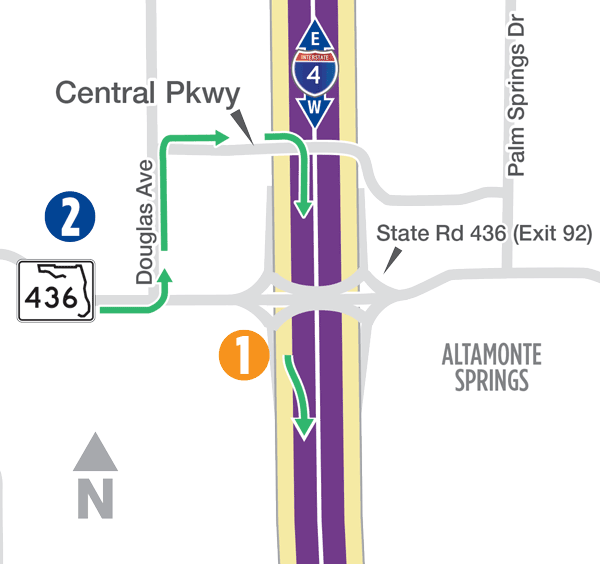
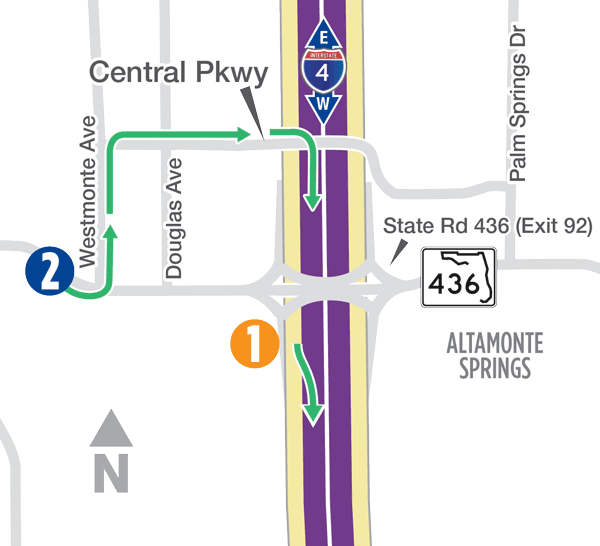
content edits

Changed region(s): [[0.0, 0.0, 0.99, 1.0], [0.12, 0.7473, 0.24, 0.9341], [0.0, 0.7784, 0.06, 1.0]]

diff --git a/src/index.js b/src/index.js
@@ -12,6 +12,9 @@ const apiKey = process.env.API_KEY;
 const domElements = {
   mapContainerStr: document.getElementById('map'),
   mapSectionStr: document.querySelector('[data-map-key]'),
+  stepNumberOneStr: document.querySelector('[data-step-one]'),
+  stepNumberTwoStr: document.querySelector('[data-step-two]'),
+  stepNumberThreeStr: document.querySelector('[data-step-three]'),
   directionStr: document.querySelector('[data-direction]'),
   directionTextStr: document.querySelector('[data-direction-text]'),
   secondStepStr: document.querySelector('.form__select-direction-two'),
@@ -160,11 +163,19 @@ window.initMap = function () {
     // display step number 2 by removing the class that's hiding it
     domElements.secondStepStr.classList.remove('hide');
 
-    // display step number 3 by removing the class that's hiding it
-    domElements.thirdStepStr.classList.remove('hide');
+    /* ==========FOR BETTER UX============== */
+    // Remove 'heart' class from step number 1
+    domElements.stepNumberOneStr.classList.remove('heart');
+
+    // Add 'heart' class to the step number 2 for better UX
+    domElements.stepNumberTwoStr.classList.add('heart');
+    /* ==========FOR BETTER UX============== */
 
     // reset exit dropdown if there's any value
     resetDropDown(domElements.exitPointStr);
+
+    // hide step number 3 by adding the class 'hide'
+    domElements.thirdStepStr.classList.add('hide');
 
     // hide view route button
     domElements.viewRouteStr.classList.add('hide');
@@ -279,6 +290,15 @@ window.initMap = function () {
 
     // reset previous routes
     directionsRenderer.setMap(null);
+
+    /* ==========FOR BETTER UX============== */
+    // ADD 'heart' class from step number 2
+    domElements.stepNumberTwoStr.classList.add('heart');
+
+    /* ==========FOR BETTER UX============== */
+
+    // hide step number 3 by adding the class 'hide'
+    domElements.thirdStepStr.classList.add('hide');
 
     // hide view route button
     domElements.viewRouteStr.classList.add('hide');
@@ -463,10 +483,21 @@ window.initMap = function () {
     // reset previous routes
     directionsRenderer.setMap(null);
 
+    // display step number 3 by removing the class that's hiding it
+    domElements.thirdStepStr.classList.remove('hide');
+
     // show view route button after user selects an exit
     domElements.viewRouteStr.classList.remove('hide');
     // show start over button after user selects an exit
     domElements.startOverStr.classList.remove('hide');
+
+    /* ==========FOR BETTER UX============== */
+    // Remove 'heart' class from step number 2
+    domElements.stepNumberTwoStr.classList.remove('heart');
+
+    // Add 'heart' class to the step number 3 for better UX
+    domElements.stepNumberThreeStr.classList.add('heart');
+    /* ==========FOR BETTER UX============== */
 
     // store the ids of the selected entry and exit point
     selectedEntryExit = [selectedEntryPoint, selectedExitPoint];
@@ -960,9 +991,12 @@ window.initMap = function () {
     // markers.push(marker);
     directionValue === 1 ? eastMarkers.push(marker) : westMarkers.push(marker);
 
+    // triggers when marker gets clicked
     marker.addListener('click', function () {
       populateInfoWindow(this);
     });
+
+    // tri
   }
 
   // clears then sets bounds of the markers
@@ -1206,14 +1240,6 @@ window.initMap = function () {
         // add error message
         resultPara.textContent = 'Error: ' + err;
       }
-      if (navigator.share) {
-        // we can use web share!
-        console.log('we can use web share!');
-        resultPara.textContent = 'Map shared successfully!';
-      } else {
-        // provide a fallback here
-        console.log('we CANNOT use web share!');
-      }
     });
 
     // console.log(mapUrl);
@@ -1268,6 +1294,12 @@ window.initMap = function () {
       elementMarkerJ.classList.remove(labelExitColor);
     }
   }
+
+  // gets the map of the current selected entry
+  function getEntryMaps() {}
+
+  // gets the map of the current selected exit
+  function getExitMaps() {}
 };
 
 // Appended the 'script' element to 'head'

diff --git a/src/index.css b/src/index.css
@@ -217,6 +217,30 @@ option {
   margin: 40px 0;
 }
 
+/* ======= IMPROVE UX BY CHANGING FORM BORDER COLOR BASED ON WHETHER IT'S AN ENTRY OR EXIT ======= */
+/* ENTRY SELECT FORM */
+[data-entry] {
+  border: 1px solid var(--label-entry-color);
+}
+
+[data-entry]:focus {
+  border-color: var(--label-entry-color);
+  outline: 0;
+  box-shadow: 0 0 0 0.25rem #36b77025;
+}
+/* EXIT SELECT FORM */
+[data-exit] {
+  border: 1px solid var(--label-exit-color);
+}
+
+[data-exit]:focus {
+  border-color: var(--label-exit-color);
+  outline: 0;
+  box-shadow: 0 0 0 0.25rem #41bddf25;
+}
+
+/* ======= END OF UX SELECT FROM CSS ======= */
+
 .step-number {
   border: 3px solid var(--steps-icon-color);
   color: var(--steps-icon-color);
@@ -476,6 +500,14 @@ option {
   /* transform: translate(50%, -50%); */
 }
 
+/* Heartbeat animation class */
+.heart {
+  animation: heartbeat 0.4s infinite alternate;
+  transform-origin: center;
+  border: 3px solid var(--label-entry-color);
+  color: var(--label-entry-color);
+}
+
 /* Media Queries */
 /* FOR SMALLER LAPTOPS */
 @media screen and (max-width: 1100px) {
@@ -488,6 +520,44 @@ option {
 @media screen and (max-width: 900px) {
   .instructionpopup-content {
     width: 100%; /* Could be more or less, depending on screen size */
+  }
+}
+
+/* FOR SMALLER TABLETS */
+@media screen and (max-width: 767.5px) {
+  /* A HACK TO HIDE THE ORIGINAL VIEW ROUTE BTN ON MOBILE AND SHOW GO TO MAP */
+  .form-view a button {
+    visibility: hidden;
+    position: relative;
+  }
+
+  .form-view a button:after {
+    content: 'Go to Map';
+    visibility: visible;
+    position: absolute;
+    top: 0;
+    left: 0;
+    display: inline-block;
+    font-weight: 400;
+    line-height: 1.5;
+    text-align: center;
+    text-decoration: none;
+    vertical-align: middle;
+    user-select: none;
+    background-color: transparent;
+    border: 1px solid transparent;
+    padding: 0.375rem 0.75rem;
+    font-size: 1rem;
+    border-radius: 0.25rem;
+    transition: color 0.15s ease-in-out, background-color 0.15s ease-in-out,
+      border-color 0.15s ease-in-out, box-shadow 0.15s ease-in-out;
+    border-color: #0d6efd;
+  }
+
+  .form-view a button:hover {
+    color: #0d6efd;
+    background-color: #0d6efd;
+    border-color: #0d6efd;
   }
 }
 
@@ -524,5 +594,11 @@ option {
   }
   100% {
     opacity: 1;
+  }
+}
+
+@keyframes heartbeat {
+  to {
+    transform: scale(1.15);
   }
 }

diff --git a/src/index.html b/src/index.html
@@ -41,7 +41,7 @@
           <!----Beginning of direction selection--->
           <div class="col-lg-8 col-md-12 form__select-direction-one">
             <div class="step">
-              <span class="step-number">1</span>
+              <span data-step-one class="step-number heart">1</span>
               <p>Which direction will you be traveling?</p>
             </div>
             <select
@@ -59,7 +59,7 @@
           <!---Beginning of entry/exit points selections-->
           <div class="col-lg-8 col-md-12 form__select-direction-two hide">
             <div class="step">
-              <span class="step-number">2</span>
+              <span data-step-two class="step-number">2</span>
               <p>
                 Choose your <strong>entry</strong> and
                 <strong>exit</strong> points (<strong
@@ -89,10 +89,10 @@
           <!-----Start of instructions for viewing maps-->
           <div class="col-md-12 form__select-direction-three hide">
             <div class="step">
-              <span class="step-number">3</span>
+              <span data-step-three class="step-number">3</span>
               <p>
-                Click on interchanges to see maps of the nearest entry and exit
-                ramp locations.
+                Click on the labeled entry and exit points
+                <strong>on the map</strong> to see more detail.
               </p>
             </div>
           </div>

diff --git a/src/data.js b/src/data.js
@@ -165,7 +165,7 @@ export const eastWestBounds = [
         ],
         entry: [
           'From S.R. 436 to westbound I-4 , the nearest I-4 Express ramp is just past the S.R. 436 on-ramp to westbound I-4.',
-          'Travel from S.R. 436 to northbound Douglas Ave. or Palm Springs Drive to access the I-4 Express Direct Connect from Central Pkwy.',
+          'Travel from S.R. 436 to N. Westmonte Dr. Travel from N. Westmonte Dr. to northbound Douglas Ave. to access the I-4 Express Direct Connect from Central Pkwy.',
         ],
         exit: ['No Available Exits :( (this is impossible)'],
       },
